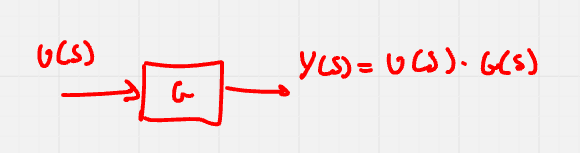
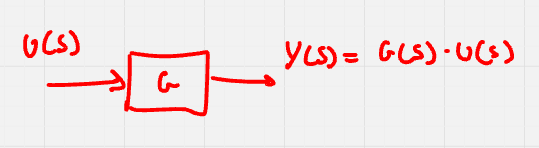
feat: schemi a blocchi

Changed region(s): [[0.0891, 0.2703, 0.9796, 0.8378], [0.0297, 0.1892, 0.1781, 0.4595]]

diff --git a/Fondamenti di Automatica/index.md b/Fondamenti di Automatica/index.md
@@ -583,7 +583,7 @@ $$
 G(s) = \frac{\rho}{s^2 + \alpha_1 s + \alpha_0}
 $$
 
-Un sistema del secondo ordine può avere sue poli reali oppure due poli complessi coniugati. A seconda del caso in cui ci si trova, cambia l'analisi.
+Un sistema del secondo ordine può avere due poli reali oppure due poli complessi coniugati. A seconda del caso in cui ci si trova, cambia l'analisi.
 
 #### Sistemi con due poli reali
 
@@ -717,15 +717,67 @@ $$
 
 Se lo zero è reale negativo ($T \gt 0$), la risposta allo scalino è velocizzata: il tempo di salita è minore e la sovraelongazione è maggiore.
 
-Se lo zero è positivo, la derivata iniziale è negativa: per un periodo, la risposta è inversa, inoltre il tempo di salita è maggiore e la sovraelongazione diminuisce.
+Se lo zero è positivo, la derivata iniziale è negativa: per un periodo, la risposta è inversa (**sottoelongazione**), inoltre il tempo di salita è maggiore e la sovraelongazione diminuisce.
 
 # Schemi a blocchi
 
-Con gli **schemi a blocchi** si possono rappresentare sistemi complessi composti da molteplici sistemi più semplici collegati tra loro. Per fare ciò è necessario ipotizzare che il modo in cui i collegamenti sono effettuati non vada ad influenzare le dinamiche.
+Con gli **schemi a blocchi** si possono rappresentare sistemi LTI complessi composti da molteplici sistemi più semplici collegati tra loro. Per fare ciò è necessario ipotizzare che il modo in cui i collegamenti sono effettuati non vada ad influenzare le dinamiche.
+
+Questo genere di rappresenta zione è molto seplice ed intuitivo: le frecce rappresentano i segnali mentre i blocchi rappresentano i sistemi.
 
 ![**Lo schema a blocchi più semplice di tutti** l'ingresso $U(s)$ viene fatto passare per il sistema $G(s)$ ottenendo in uscita $Y(s) = U(s)\cdot G(s)$. L'ordine delle moltiplicazioni non è commutativo.](assets/schemi_a_blocchi/semplice.png)
 
+Più segnali possono essere sommati (o sottratti) tra di loro tramite il **nodo somma**:
 
+![I segnali che entrano nel nodo somma possono essere sommati o sottratti a seconda del segno di fianco alla freccia.](assets/schemi_a_blocchi/nodo_somma.png)
+
+Se uno stesso segnale deve essere dato in pasto a più sistemi diversi, si usano le **diramazioni**:
+
+![](assets/schemi_a_blocchi/diramazione.png)
+
+Vari sistemi possono essere collegati in **serie**, in **parallelo** o in antiparallelo.
+
+Quando due blocchi sono collegati in serie, il blocco equivalente è $G_E(s) = G_A(s) \cdot G_B(s)$.
+
+![Blocchi collegati in serie.](assets/schemi_a_blocchi/serie.png)
+
+In caso di collegamento in serie, gli zeri del sistema equivalente sono l'unione degli zeri dei due sistemi, idem per i poli.
+
+Per far si che il sistema equivalente sia stabile, tutti i sistemi che lo compongono devono essere stabili, se anche uno solo è instabile, allora lo sarà anche il sistema equivalente.
+
+Quando due blocchi sono collegati in parallelo, il blocco equivalente è $G_E(s) = \pm G_A(s) \pm G_B(s)$, coi segni che variano in base ai segni sul nodo somma.
+
+![Blocchi collegati in parallelo.](assets/schemi_a_blocchi/parallelo.png)
+
+In caso di collegamento in parallelo, i poli del sistema sono ancora una volta l'unioe dei poli dei due sistemi.
+
+Siano $G_A(s) = \frac{N_A(s)}{D_A(s)}$ e $G_B(s) = \frac{N_B(s)}{D_B(s)}$, allora $G_E(s) = \frac{\pm N_A(s) \cdot D_B(s) \pm N_B(s) \cdot D_A(s)}{D_A(s) \cdot D_B(s)}$; ne segue che gli zeri sono le radici di $\pm N_A(s) \cdot D_B(s) \pm N_B(s) \cdot D_A(s) = 0$.
+
+Per far si che il sistema equivalente sia stabile, tutti i sistemi che lo compongono devono essere stabili, se anche uno solo è instabile, allora lo sarà anche il sistema equivalente.
+
+Sistemi collegati in antiparallelo sono anche detti **retroazionati** e costituiscono un blocco fondamentale della teoria del controllo in quanto costituiscono un modo di rendere stabili anche sistemi instabili.
+
+![Sistemi in antiparallelo. Se $G(s)$ non fosse presente, si consideri $G(s) = 1$.](assets/schemi_a_blocchi/antiparallelo.png)
+
+E' importante notare che il segno del nodo somma e il segno nel denominatore sono opposti: se ne può facilmente verificare la correttezza partendo dall'equazione $Y(s) = L(s) \cdot (G(s) \cdot Y(s) + U(s))$.
+
+Siano $L(s) = \frac{N_L(s)}{D_L(s)}$ e $G(s) = \frac{N_G(s)}{D_G(s)}$, allora
+
+$$
+Y(s) = \frac{\frac{N_L(s)}{D_L(s)}}{1 \mp \frac{N_L(s)}{D_L(s)} \cdot \frac{N_G(s)}{D_G(s)}} = \frac{N_L(s) \cdot D_G(s)}{D_L(s) \cdot D_G(s) \mp N_L(s) \cdot N_G(s)}
+$$
+
+da cui segue che gli zeri del sistema equivalente sono l'unione degli zeri di $L(s)$ coi poli di $G(s)$ mentre i poli sono le radici di $D_L(s) \cdot D_G(s) \mp N_L(s) \cdot N_G(s)$.
+
+Nei casi di sistemi in serie, parallelo o antiparallelo, è possibile che alcuni poli si semplifichino con alcuni zeri; in tal caso è importante fare attenzione: se si semplificano solo poli stabili non v'è alcun problema, se invece i poli candidati ad essere semplificati sono instabili, non si possono semplificare.
+
+## Funzione di trasferimento
+
+Una **funzione di trasferimento** è una funzione che lega un'uscita ad un ingresso.
+
+Si immagini di voler calcolare la funzione di trasferimento $H(s)$ tra l'uscita $Y(s)$ è l'ingresso $U(s)$: come prima cosa si pongono a zero tutti gli ingressi diversi da $U(s)$, poi si calcola $H(s) = \frac{Y(s)}{U(s)}$.
+
+Vale la sovrapposizione degli effetti: siano $H_1(s)$ la funzione di trasferimento tra $Y(s)$ e $U_1(s)$ e $H_2(s)$ la funzione di trasferimento tra $Y(s)$ e $U_2(s)$. Se il sistema non ha altri ingressi allora $Y(s) = H_1(s) \cdot U_1(s) + H_2(s) \cdot U_2(s)$. questo ragionamento vale con un numero arbitrario di ingressi.
 
 # Appendice
 
